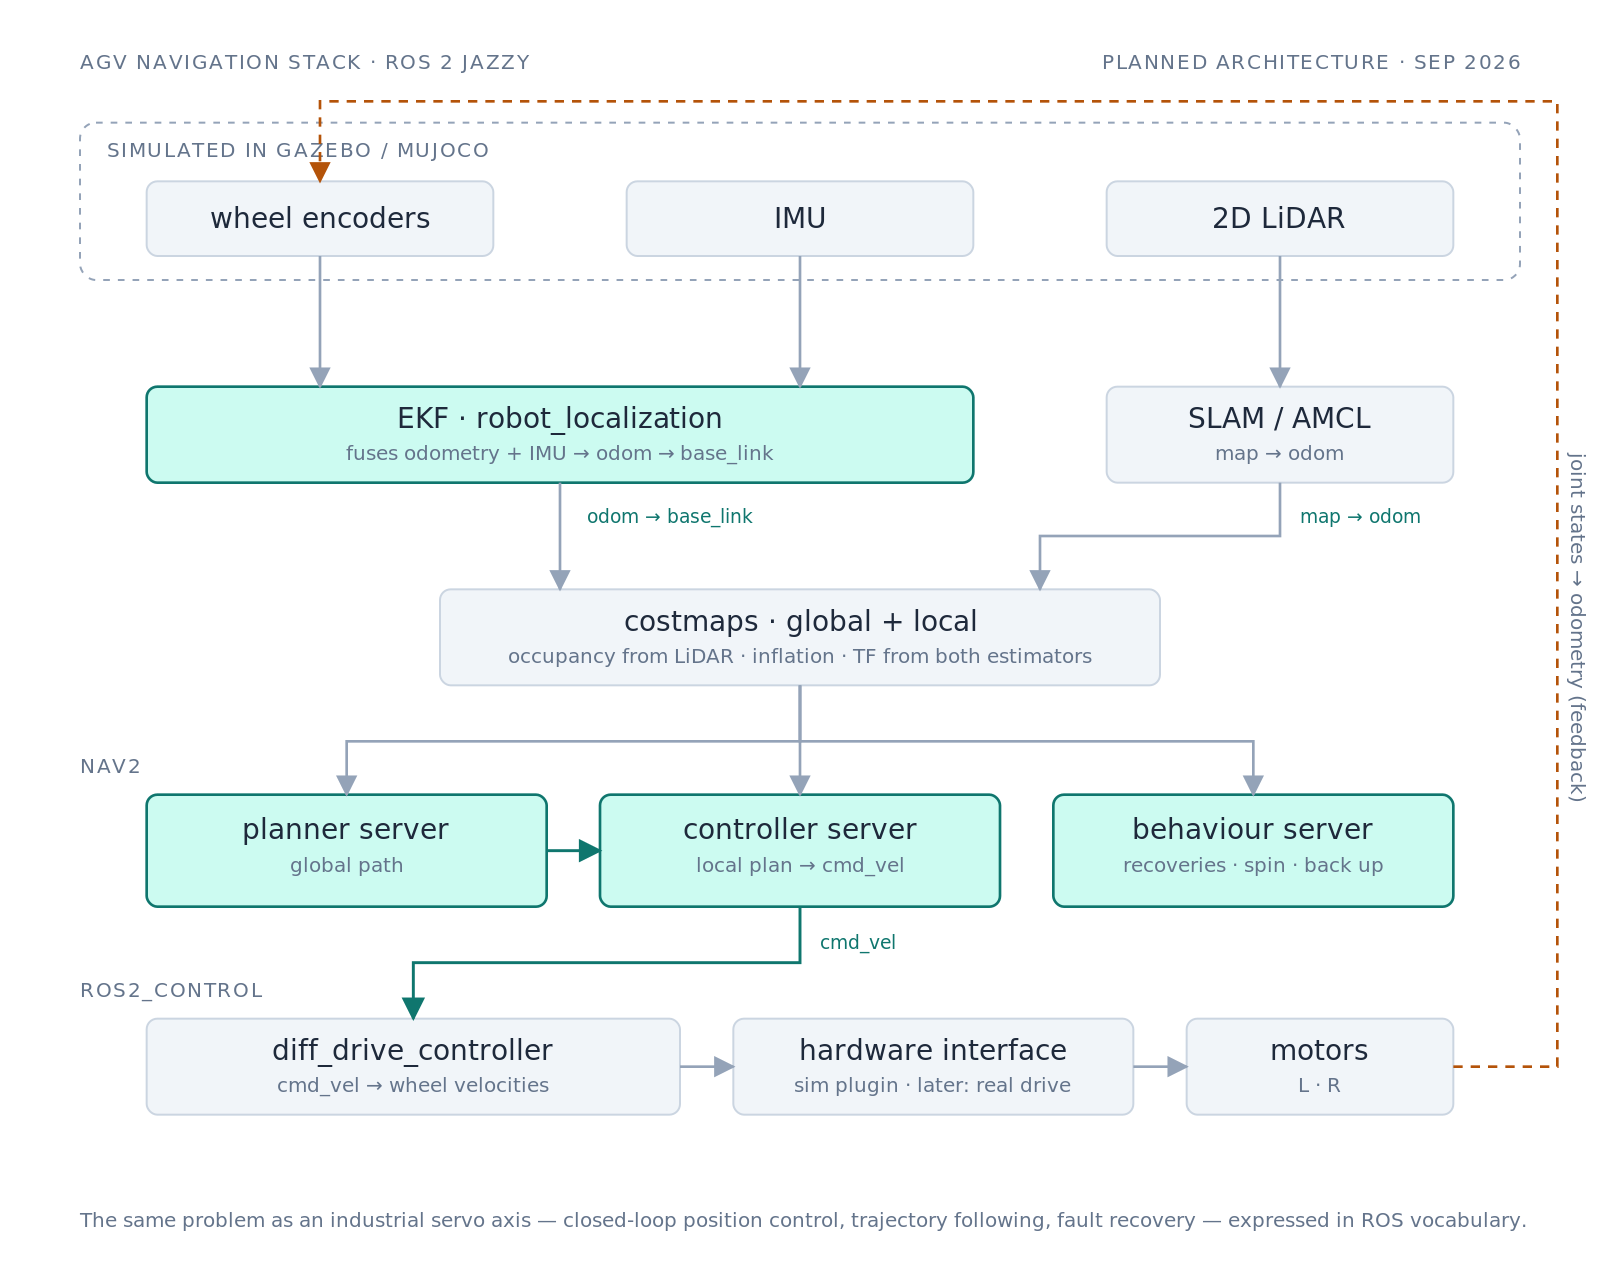
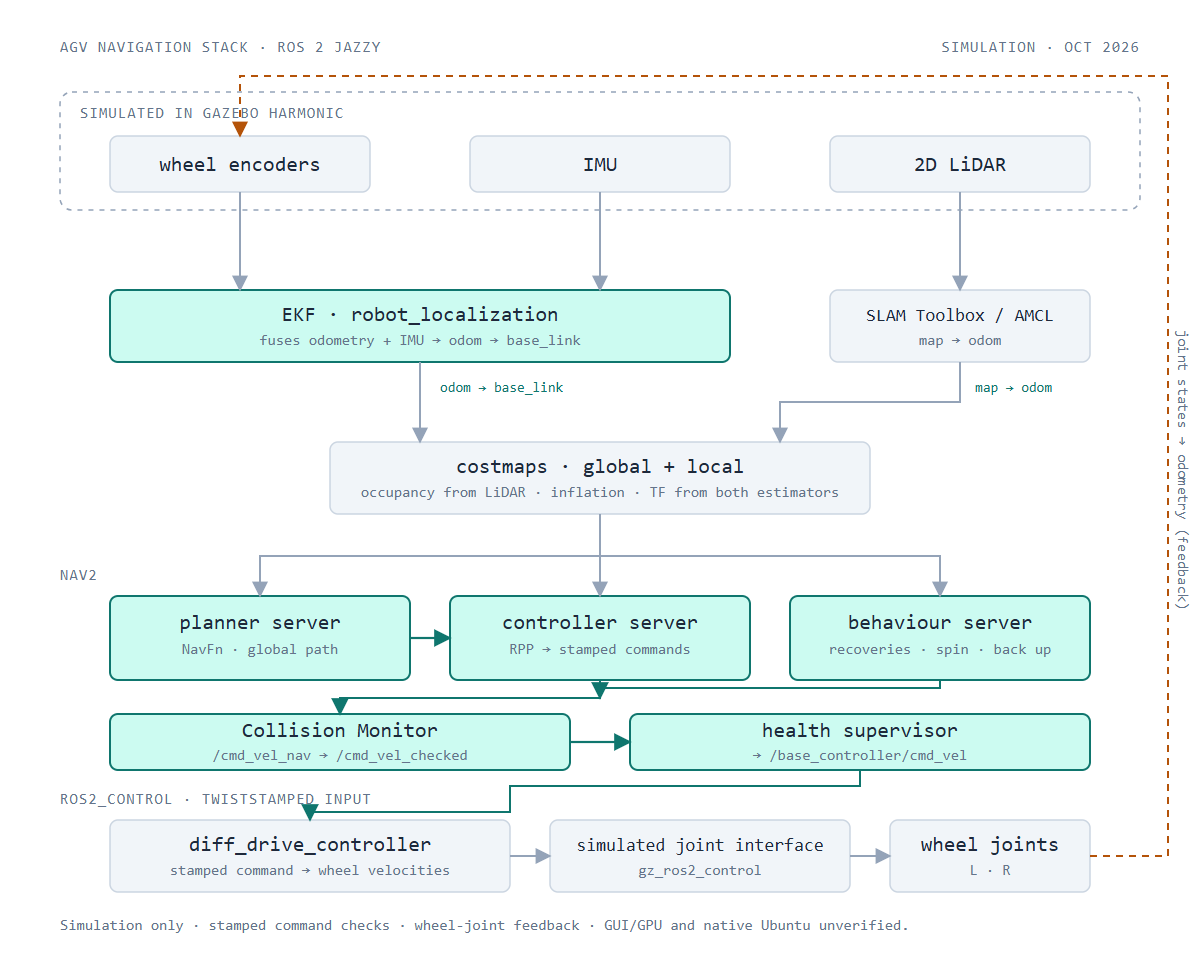
Update AGV public source and clean-clone verification status

diff --git a/_projects/1_agv_nav_stack.md b/_projects/1_agv_nav_stack.md
@@ -1,33 +1,36 @@
 ---
 layout: page
 title: Differential-drive AGV navigation stack
-description: A benchmarked differential-drive simulation with EKF localisation and Nav2. Reproducibility and public release checks in progress.
+description: A public differential-drive simulation with EKF localisation and Nav2. Clean-clone verified; versioned release and public demonstration pending.
 img: assets/img/projects/agv-stack.png # raster fallback / social preview
 diagram: assets/img/projects/agv-stack.svg # served directly: a vector stays sharp at any width
-diagram_alt: "Architecture of the AGV navigation stack: simulated wheel encoders, IMU and 2D LiDAR feed an EKF and SLAM/AMCL, which publish the TF tree into global and local costmaps; nav2's planner, controller and behaviour servers produce cmd_vel, which ros2_control's diff_drive_controller turns into wheel velocities through a hardware interface to the motors, with joint states fed back to odometry."
+diagram_alt: "Gazebo Harmonic simulation architecture: wheel feedback and IMU feed the planar EKF; LiDAR supports SLAM Toolbox mapping or saved-map AMCL localisation and costmaps. Nav2 commands pass through Collision Monitor and the health supervisor as TwistStamped messages before reaching diff_drive_controller and the gz_ros2_control simulated joint interface; wheel-joint feedback closes the loop."
 importance: 1
 category: robotics
 featured: true
-status: Simulation benchmarked · release checks in progress
+status: Public source · clean-clone verified
 org: Personal project
 period: 2026
 stack_line: ROS 2 Jazzy · Nav2 · robot_localization (EKF) · ros2_control · Gazebo Harmonic
 demonstrates:
   - "<strong>State estimation</strong> — EKF fusion of wheel odometry and IMU, and what actually degrades it: wheel slip, unmodelled latency, covariance that is guessed rather than measured."
   - "<strong>Planning and control</strong> — global planner and local controller behaviour on a non-holonomic base, and the recovery behaviours that decide whether a robot is usable or merely demonstrable."
-  - "<strong><code>ros2_control</code> integration</strong> — the same hardware-interface problem as an industrial servo axis, expressed in ROS vocabulary."
-  - "<strong>Reproducibility</strong> — PowerShell/WSL entry points prepared; clean-clone verification remains pending."
+  - "<strong><code>ros2_control</code> integration</strong> — a simulated joint interface through <code>gz_ros2_control</code>, with stamped commands checked by Collision Monitor and health supervision."
+  - "<strong>Reproducibility</strong> — clean-clone verification passed on 13 October 2026: three packages built, seven tests passed and a contact-free clear route."
 ---
 
 **Stack:** ROS 2 Jazzy · Nav2 · robot_localization (EKF) · ros2_control · Gazebo Harmonic
 
-**Status, 10 October 2026:** simulation benchmarks completed; clean-clone
-verification and public repository release remain pending. November 2026 remains
-the publication target.
+**Status, 13 October 2026:** public source and clean-clone verification confirmed.
+The [repository](https://github.com/zy13027/agv-ros2-sim) is available; no versioned
+GitHub release or tag has been published. Public demonstration and artefact
+publishing remain pending.
 
 An autonomy stack on a simulated differential-drive base: URDF and a
-`ros2_control` simulated joint interface, wheel-odometry and IMU fusion through
-an EKF, saved-map AMCL localisation, and NavFn / Regulated Pure Pursuit navigation.
+`gz_ros2_control` simulated joint interface, wheel-odometry and IMU fusion through
+a planar EKF, SLAM Toolbox mapping, saved-map AMCL localisation, and NavFn /
+Regulated Pure Pursuit navigation. Stamped commands follow Nav2 → Collision
+Monitor → health supervisor → diff-drive controller.
 
 **Recorded simulation results**
 
@@ -36,13 +39,39 @@ an EKF, saved-map AMCL localisation, and NavFn / Regulated Pure Pursuit navigati
 - 50 completed fault cases met the plan's stopping and bounded-termination
   criteria. The original strict suite remains failed at 78/80 passes; one
   preflight failure and one contact-free obstacle progress abort are retained.
-  The obstacle scenario reached its goal in 4/5 trials.
+  An additional unchanged-source attempt completed the seed whose first startup
+  failed before movement, bringing the assessment to 81 total attempts.
+  Scripted obstacle goals succeeded in 4/5 trials; the remaining trial stopped
+  without contact and ended in a bounded progress abort.
 - The benchmark's worst nominal final-position error was 0.1458 m against a
   0.15 m target, leaving limited margin. Results apply to the tested world,
   starts and synthetic settings; they are not physical-robot validation.
 
-The current work is clean-clone verification, release metadata and repository
-publication. GUI/GPU operation remains unverified.
+**Clean-clone verification, 13 October 2026**
+
+At source commit `303099d6242642d8bec8a5662878fe66228c5daf`, three packages built
+and seven tests passed. Clear-route navigation succeeded with zero contacts and
+recoveries; final error was 0.0819 m / 0.0495 rad. The tested platform was an
+Ubuntu 24.04 container on WSL2, with software rendering and runtime networking
+disabled. This was one clear-route check; the full benchmark evidence is separate.
+
+GUI/GPU operation and native Ubuntu installation remain unverified. All results
+concern simulation. The 150-second local demonstration is measured-data replay,
+not a Gazebo GUI recording, and has no verified public URL. Public JSON summaries
+are available; raw bags and workstation logs remain local.
+
+**Public source and evidence**
+
+- [Repository](https://github.com/zy13027/agv-ros2-sim)
+- [README](https://github.com/zy13027/agv-ros2-sim/blob/279001ce614edd7995780fdfc1466d104b721b2b/README.md)
+- [Benchmark summary](https://github.com/zy13027/agv-ros2-sim/blob/279001ce614edd7995780fdfc1466d104b721b2b/reports/benchmark_summary.json)
+- [Reproducibility summary](https://github.com/zy13027/agv-ros2-sim/blob/279001ce614edd7995780fdfc1466d104b721b2b/reports/reproducibility_summary.json)
+- [Apache-2.0 licence](https://github.com/zy13027/agv-ros2-sim/blob/279001ce614edd7995780fdfc1466d104b721b2b/LICENSE)
+
+Evidence links are pinned to public commit `279001ce614edd7995780fdfc1466d104b721b2b`.
+The README and handoff's pending-publication wording predates the confirmed
+public repository; versioned release remains pending. Maintainer:
+`StrangeTiger360 <yangzinan95@163.com>`.
 
 **What it demonstrates**
 
@@ -51,15 +80,15 @@ publication. GUI/GPU operation remains unverified.
 - **Planning and control** — global planner and local controller behaviour on a
   non-holonomic base, and the recovery behaviours that decide whether a robot is
   usable or merely demonstrable
-- **`ros2_control` integration** — the same hardware-interface problem as an
-  industrial servo axis, expressed in ROS vocabulary
-- **Reproducibility** — PowerShell/WSL entry points prepared; clean-clone verification remains pending
+- **`ros2_control` integration** — simulated joints through `gz_ros2_control`,
+  with stamped commands checked by Collision Monitor and health supervision
+- **Reproducibility** — clean-clone verification passed: three packages built,
+  seven tests passed and a contact-free clear route
 
 **Why this project**
 
 My strongest robotics work dates from 2022. Rather than claim currency, I am
 rebuilding it with the current toolchain. The simulation now has retained
-benchmark results; clean-clone verification and repository publication are the
+benchmark results and a verified clean clone, with public source available.
+A versioned release and public demonstration / artefact publishing are the
 remaining release steps.
-
-The repository link will be added after public release.

diff --git a/_pages/zh.md b/_pages/zh.md
@@ -39,10 +39,13 @@ nav_order: 5
 
 <div class="zy-card zy-zh-card">
   <div class="zy-zh-card-head">
-    <span class="zy-pill"><span class="zy-dot"></span>仿真测试已完成 · 正在验证复现与准备发布</span>
+    <span class="zy-pill"><span class="zy-dot"></span>源码已公开 · 全新克隆验证通过</span>
     <h3 class="zy-h3">差速驱动 AGV 导航栈</h3>
-    <p class="zy-muted">基于 ROS 2 Jazzy 与 Gazebo Harmonic 的差速驱动 AGV 仿真：URDF 与 ros2_control 仿真接口、轮式里程计与 IMU 的 EKF 融合、已保存地图上的 AMCL 定位，以及 NavFn 与 Regulated Pure Pursuit 导航。2026 年 10 月 10 日的测试记录中，30 次常规导航任务全部完成，未发生障碍物接触。</p>
-    <p class="zy-muted zy-small">当前正在验证全新克隆环境中的复现与准备发布，仓库尚未公开，目标仍为 2026 年 11 月。原始严格测试集为 78/80 通过，失败记录保留。一次启动前检查失败，另一次障碍场景未到达目标，但未发生接触，并在有限次恢复尝试后终止。结果仅适用于已测试的仿真场景，不代表实机验证。</p>
+    <p class="zy-muted">基于 ROS 2 Jazzy 与 Gazebo Harmonic 的差速驱动 AGV 仿真：gz_ros2_control 仿真关节接口、轮式里程计与 IMU 的平面 EKF 融合、SLAM Toolbox 建图、已保存地图上的 AMCL 定位，以及 NavFn 与 Regulated Pure Pursuit 导航。带时间戳的速度指令依次经过 Nav2、Collision Monitor、健康监控节点和差速控制器。2026 年 10 月 10 日的测试记录中，30 次常规导航任务全部完成，未发生障碍物接触。</p>
+    <p class="zy-muted zy-small">2026 年 10 月 13 日，源码仓库已公开，全新克隆验证通过：三个软件包构建成功，七项测试通过，畅通路线导航成功，接触和恢复次数均为零，最终误差为 0.0819 m / 0.0495 rad。验证使用 WSL2 上的 Ubuntu 24.04 容器、软件渲染，运行时网络已禁用。项目采用 Apache-2.0 许可证。</p>
+    <p class="zy-muted zy-small">50 次已完成的故障测试满足计划中的停车或有限时间终止要求。原始严格测试集仍为 78/80 通过，失败记录保留；首次启动未运动即失败的测试种子，在源码未改动的情况下补测完成，共记录 81 次尝试。脚本障碍场景为 4/5 到达目标，另一次无接触停车后，在有限次恢复尝试后因未取得进展而终止。常规任务的最大位置误差为 0.1458 m，接近 0.15 m 目标，余量有限。</p>
+    <p class="zy-muted zy-small">当前工作是带版本号的发布及公开演示与产物，尚无 GitHub Release 或版本标签。150 秒本地演示是测量数据回放，并非 Gazebo 图形界面录像，尚无已验证的公开链接。原始录包与工作站日志保留在本地。图形界面、GPU 和原生 Ubuntu 安装尚未验证；结果仅适用于已测试的仿真场景，不代表实机验证。</p>
+    <p class="zy-muted zy-small"><a href="https://github.com/zy13027/agv-ros2-sim">公开仓库 →</a> · <a href="{{ '/projects/1_agv_nav_stack/' | relative_url }}">项目说明与测试证据 →</a></p>
     <div class="zy-mono zy-stackline">ROS 2 Jazzy · Nav2 · robot_localization · ros2_control · Gazebo Harmonic</div>
   </div>
 </div>

diff --git a/_pages/projects.md b/_pages/projects.md
@@ -48,7 +48,7 @@ nav_order: 2
                width="1200" height="960" loading="lazy" decoding="async">
         </div>
         <figcaption class="zy-mono zy-figcap">
-          <span>Planned architecture<span class="zy-figcap-hint"> — swipe to pan</span></span>
+          <span>Simulation architecture<span class="zy-figcap-hint"> — swipe to pan</span></span>
           <a href="{{ featured.diagram | relative_url }}" target="_blank" rel="noopener">open full size&nbsp;↗</a>
         </figcaption>
       </figure>
@@ -77,7 +77,7 @@ nav_order: 2
             </li>
           {% endfor %}
         </ol>
-        <p class="zy-muted zy-small">Simulation milestones are backed by retained benchmark results. Clean-clone verification and public repository release remain pending.</p>
+        <p class="zy-muted zy-small">Simulation benchmarks and clean-clone verification are recorded. <a href="https://github.com/zy13027/agv-ros2-sim">Public source →</a> Versioned release and public demonstration remain pending.</p>
       </div>
       {% endif %}
     </div>

diff --git a/_news/announcement_1.md b/_news/announcement_1.md
@@ -5,4 +5,4 @@ inline: true
 related_posts: false
 ---
 
-Building a differential-drive AGV navigation stack in ROS 2 Jazzy — EKF localisation and nav2. Repo public in November.
+Building a differential-drive AGV navigation stack in ROS 2 Jazzy — EKF localisation and Nav2. [Public source](https://github.com/zy13027/agv-ros2-sim) and clean-clone verification confirmed on 13 October 2026; versioned release and public demonstration pending.
